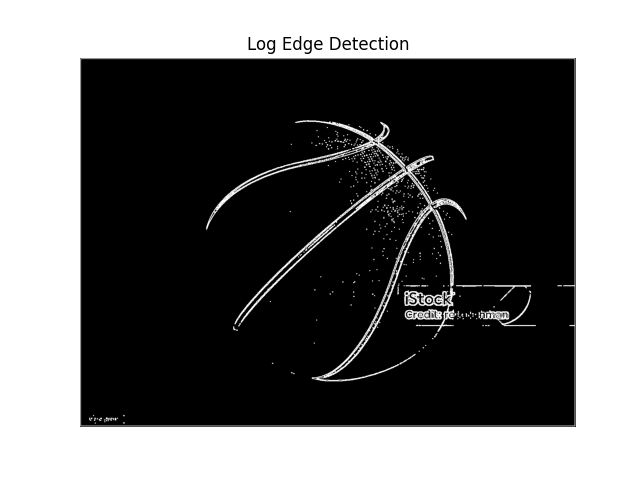
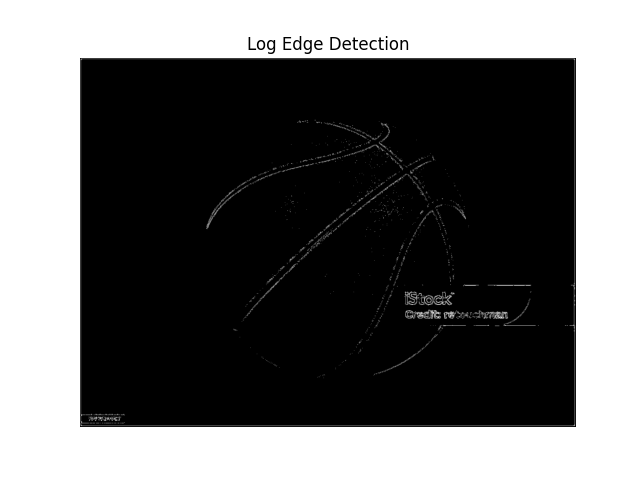
fixes

diff --git a/2nd_assignment/demo.py b/2nd_assignment/demo.py
@@ -4,6 +4,9 @@ import matplotlib.pyplot as plt
 import os
 from sobel_edge import sobel_edge
 from log_edge import log_edge
+from fir_conv import fir_conv
+from circ_hough import circ_hough
+
 
 plt.ioff()
 output_dir = "./output_plots"
@@ -14,10 +17,12 @@ filename = "images/basketball_large.png"
 img = Image.open(fp=filename)
 bw_img = img.convert("L")
 img_array = np.array(bw_img).astype(float) / 255.0
+
+# Display original image
 plt.imshow(img_array, cmap='gray')
 plt.title("Original Image")
 plt.axis('off')
-plt.savefig(os.path.join(output_dir, "1_Original Image.png"))
+plt.savefig(os.path.join(output_dir, "1_Original_Image.png"))
 
 # Sobel edge detection
 thres = [0.1, 0.2, 0.3, 0.4, 0.5, 0.6, 0.7, 0.8, 0.9]
@@ -25,11 +30,11 @@ detected_points = []
 
 plt.figure(figsize=(12, 12))
 for i, t in enumerate(thres):
-    out_img_array = sobel_edge(img_array, t)
-    num_edges = np.sum(out_img_array)  # Count the number of edge pixels
+    sobel_out_img_array = sobel_edge(img_array, t)
+    num_edges = np.sum(sobel_out_img_array)
     detected_points.append(num_edges)
     plt.subplot(3, 3, i + 1)
-    plt.imshow(out_img_array, cmap='gray')
+    plt.imshow(sobel_out_img_array, cmap='gray')
     plt.title(f"Threshold: {t}")
     plt.axis('off')
 plt.tight_layout()
@@ -42,20 +47,10 @@ plt.xlabel("Threshold Value")
 plt.ylabel("Number of Edge Pixels")
 plt.grid(True)
 plt.savefig(os.path.join(output_dir, "Sobel_Edge_Pixel_Count_vs_Threshold.png"))
-plt.show()
-
-# for i in thres:
-#     out_img_array = sobel_edge(img_array, i)
-# 
-#     plt.imshow(out_img_array, cmap='gray')
-#     plt.title(f"Sobel Edge Detection (Threshold: {i})")
-#     plt.axis('off')
-#     plt.savefig(os.path.join(output_dir, f"2_Sobel_Edge_Detection_Threshold_{i}.png"))
-#     plt.close()
 
 # Log edge detection
-out_img_array = log_edge(img_array)
-plt.imshow(out_img_array, cmap='gray')
+log_out_img_array = log_edge(img_array)
+plt.imshow(log_out_img_array, cmap='gray')
 plt.title("Log Edge Detection")
 plt.axis('off')
 plt.savefig(os.path.join(output_dir, "3_Log_Edge_Detection.png"))

diff --git a/2nd_assignment/log_edge.py b/2nd_assignment/log_edge.py
@@ -3,8 +3,8 @@ from fir_conv import fir_conv
 
 
 def log_edge(in_img_array: np.ndarray) -> np.ndarray:
-    log_size = 7.0
-    sigma = 1.0
+    log_size = 10.0
+    sigma = 1.1
     k = (log_size - 1) / 2
     x = np.arange(-k, k, 1)
     x1, x2 = np.meshgrid(x, x)
@@ -13,14 +13,25 @@ def log_edge(in_img_array: np.ndarray) -> np.ndarray:
     h = - 1 * (1 - y) * np.exp(-y) / (np.pi * (sigma ** 4))
 
     result_img = fir_conv(in_img_array, h, None, None)[0]
-
+    threshold = 0.04
     out_img_array = np.zeros_like(result_img, dtype=int)
 
     for i in range(1, result_img.shape[0] - 1):
         for j in range(1, result_img.shape[1] - 1):
             center = result_img[i, j]
-            neighborhood = result_img[i - 1:i + 2, j - 1:j + 2]
-            if (center > 0 and np.any(neighborhood < 0)) or (center < 0 and np.any(neighborhood > 0)):
-                out_img_array[i, j] = 1
+
+            if abs(center) > threshold:
+                neighborhood = result_img[i - 1:i + 2, j - 1:j + 2]
+                for m in range(3):
+                    for n in range(3):
+                        if m == 1 and n == 1:
+                            continue
+                        neighbor_val = neighborhood[m, n]
+                        if ((center > 0 and neighbor_val < 0) or (center < 0 and neighbor_val > 0)) and \
+                           (abs(center - neighbor_val) > threshold):
+                            out_img_array[i, j] = 1
+                            break
+                    if out_img_array[i, j] == 1:
+                        break
 
     return out_img_array
